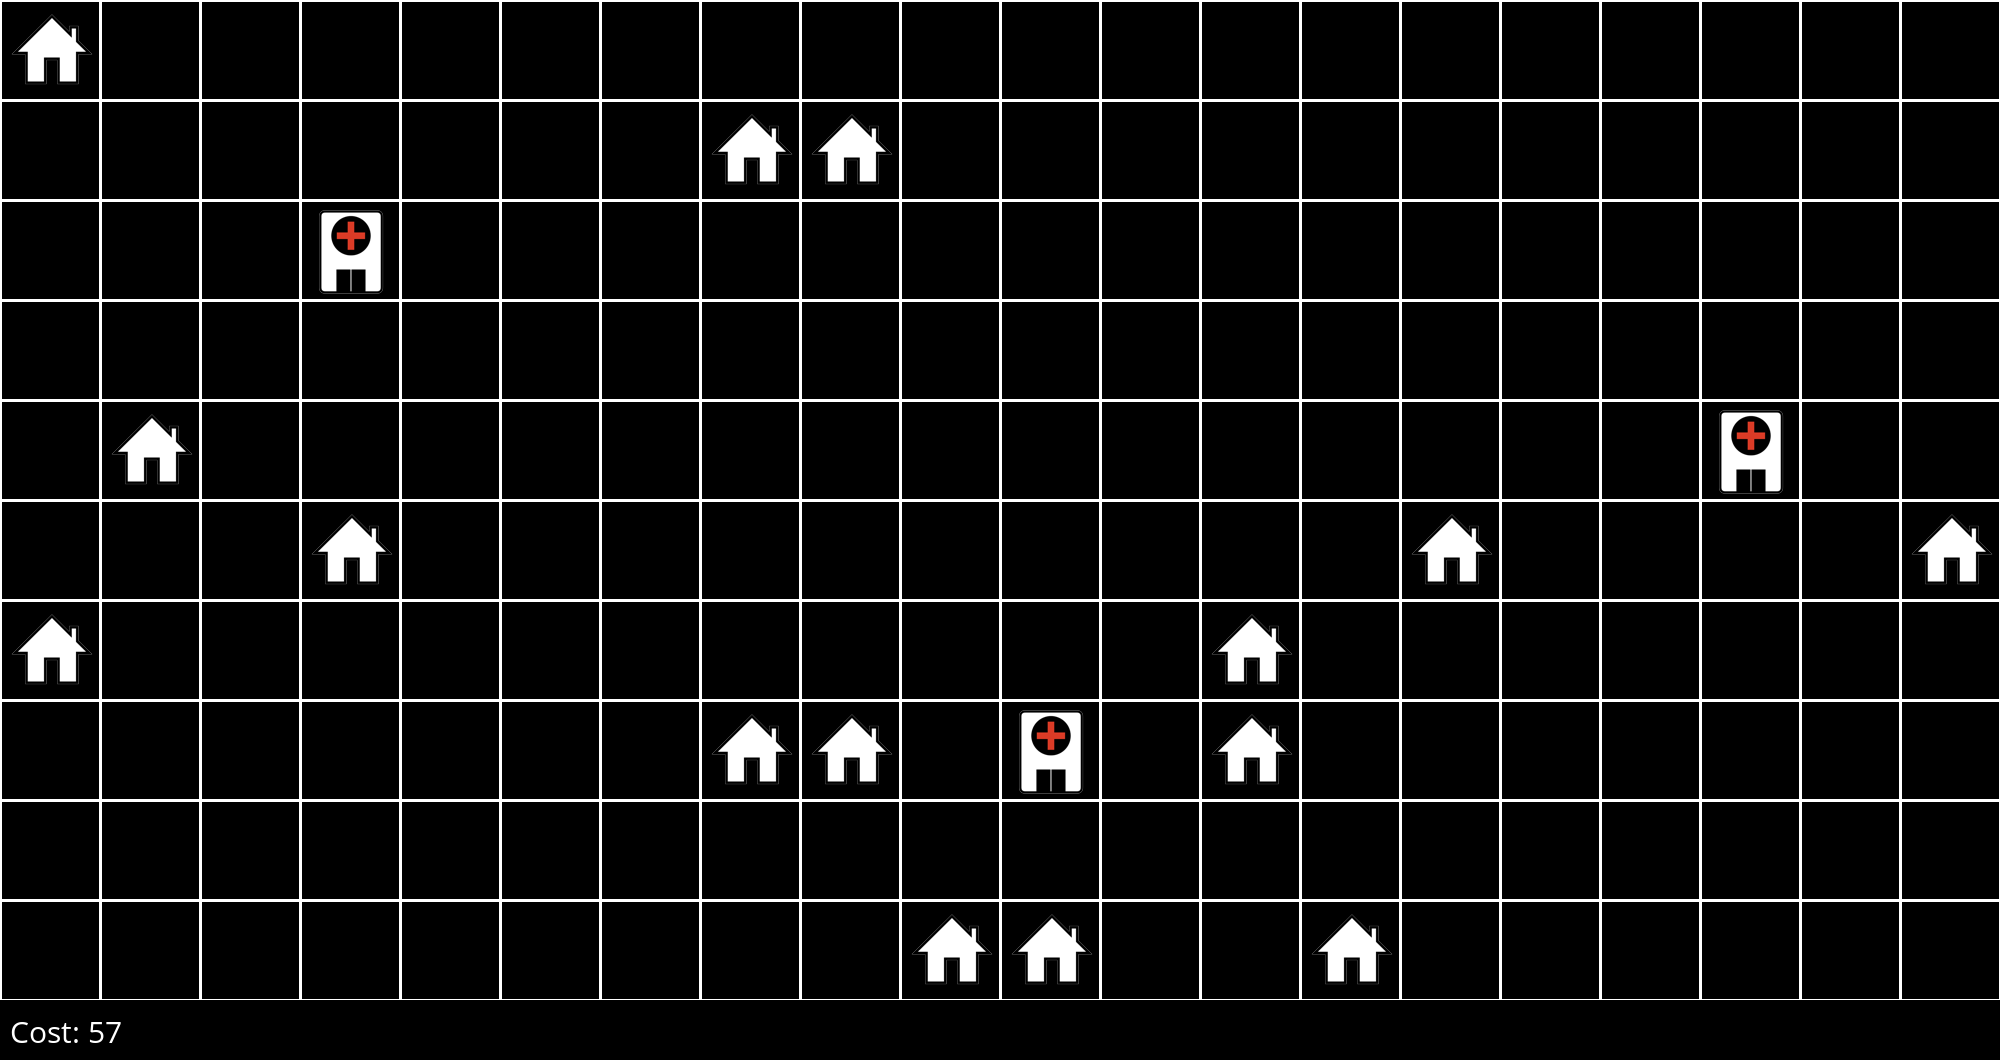
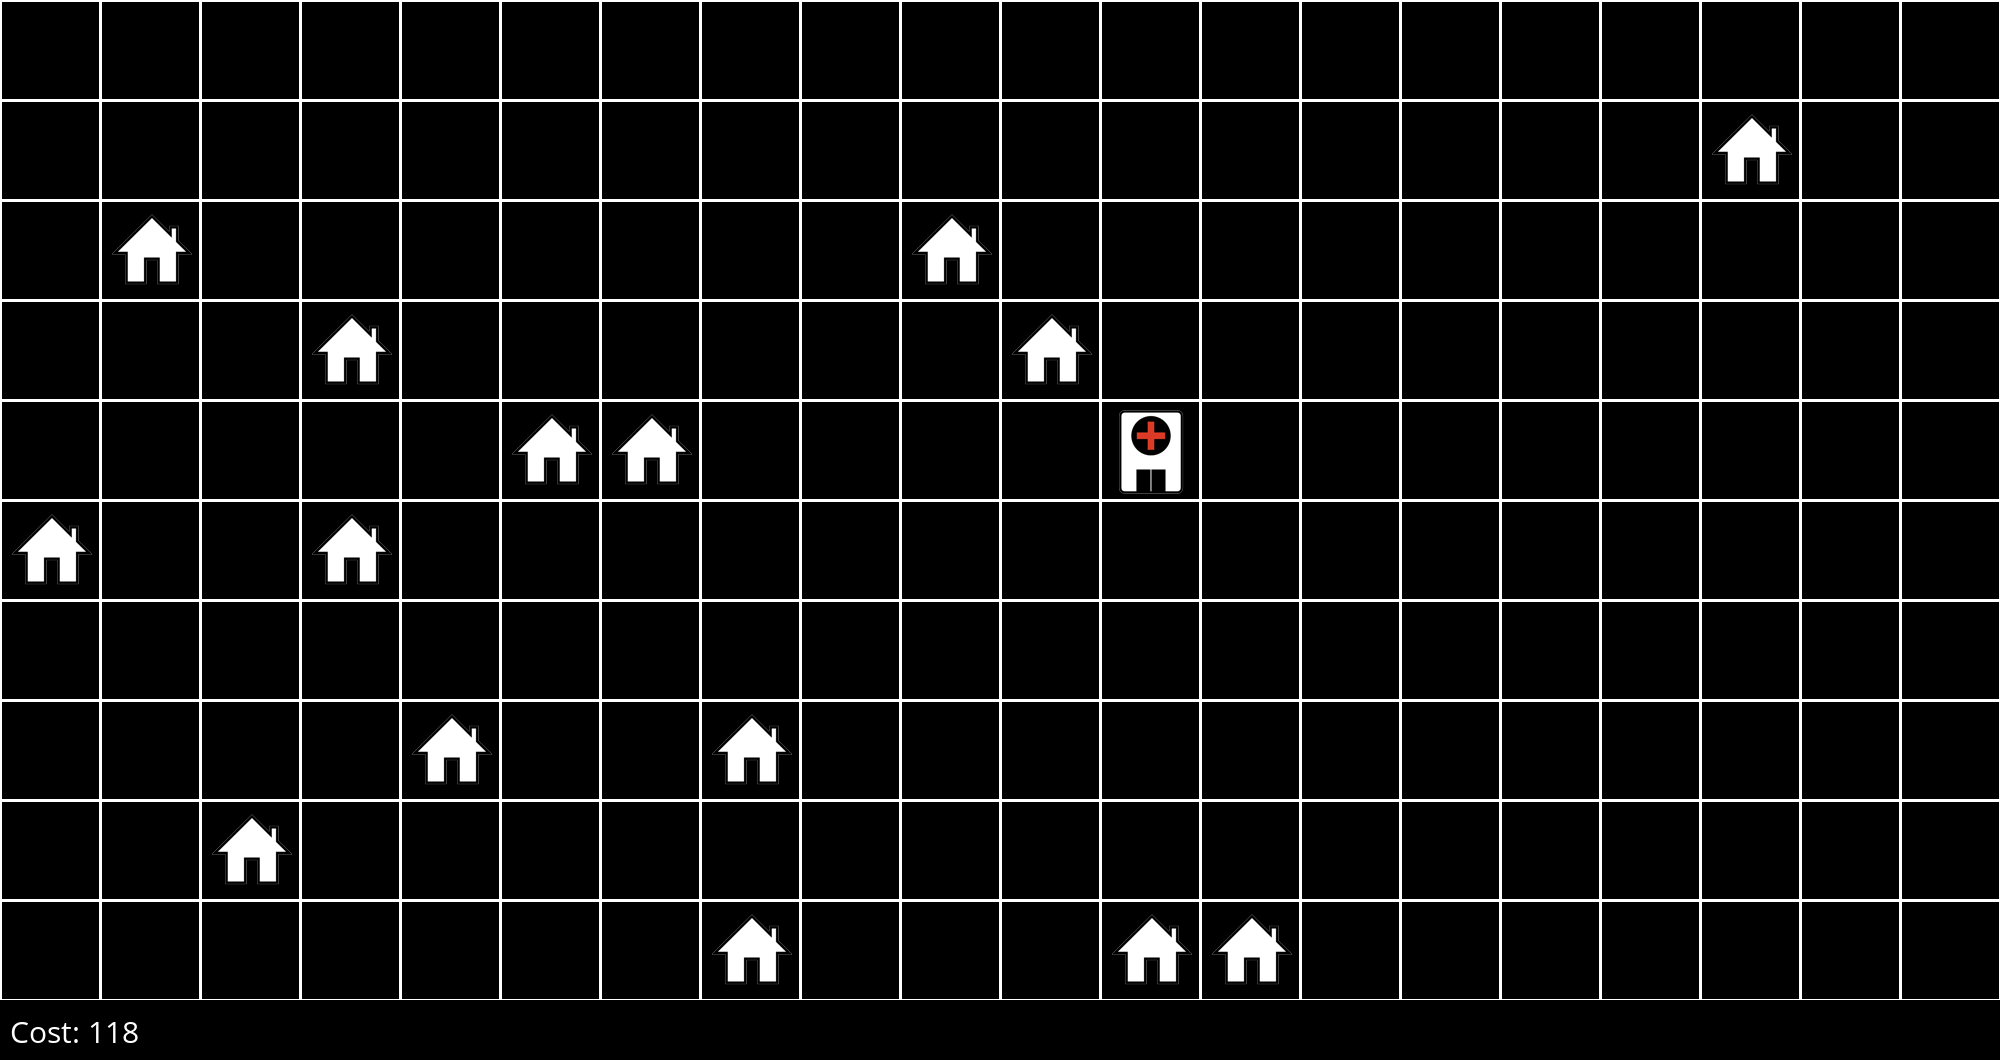
Final results

diff --git a/hospitals.py b/hospitals.py
@@ -207,8 +207,8 @@ class Space():
         # Remove all houses and hospitals
         for house in self.houses:
             candidates.remove(house)
-        # for hospital in self.hospitals:
-        #     candidates.remove(hospital)
+        for hospital in self.hospitals:
+            candidates.remove(hospital)
 
         for candidate in candidates:
             candidate_cost[candidate[0]][candidate[1]] = self.get_cost(set([candidate]))
@@ -216,12 +216,13 @@ class Space():
         return candidate_cost
 
     def Heatmap_picture(self):
+        """Storing data / Cost values"""
         data = self.heatmap_data_collection(self.hospitals)
 
 
 
 # Create a new space and add houses randomly
-s = Space(height=10, width=20, num_hospitals=3)
+s = Space(height=10, width=20, num_hospitals=1)
 for i in range(15):
     s.add_house(random.randrange(s.height), random.randrange(s.width))
 
@@ -229,6 +230,11 @@ for i in range(15):
 hospitals = s.hill_climb(image_prefix="hospitals", log=True)
 data = s.heatmap_data_collection(hospitals)
 
-ax = sns.heatmap(data, annot=True, cmap= "crest", fmt=".1f", linewidth=.5)
+# Create the Heatmap using Seaborn library
+ax = sns.heatmap(data, annot=True, cmap= "crest", fmt='.1f', linewidth=.5, cbar=True, square=True)
+
+# Saving the Heatmap picture 
+Heatmap_pic = 'Heatmap.png'
+plt.savefig(Heatmap_pic)
 
 plt.show()
